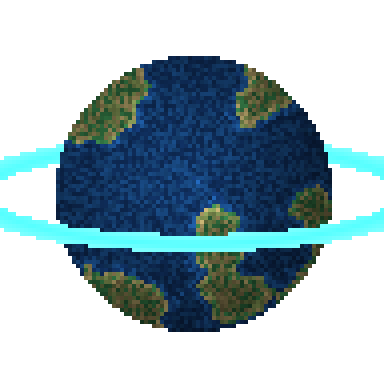
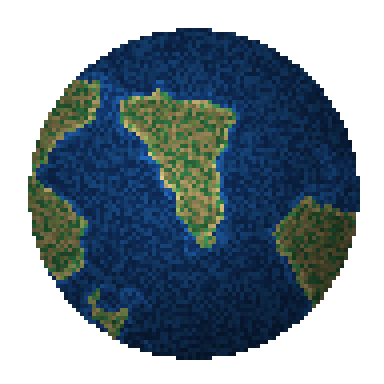
add galaxy generator

diff --git a/galaxy_generator.py b/galaxy_generator.py
@@ -1,0 +1,210 @@
+from PIL import Image, ImageDraw, ImageFilter
+import random
+import math
+from galaxy_color_themes import COLOR_THEMES
+
+BASE_W, BASE_H = 320, 180
+
+
+
+
+def lerp(a, b, t):
+    return a + (b - a) * t
+
+
+def color_lerp(c1, c2, t):
+    return tuple(int(lerp(c1[i], c2[i], t)) for i in range(3))
+
+
+def soft_palette_color(colors):
+    t = random.random() * (len(colors) - 1)
+    i = int(t)
+    local_t = t - i
+
+    if i >= len(colors) - 1:
+        return colors[-1]
+
+    # 平滑过渡
+    local_t = local_t * local_t * (3 - 2 * local_t)
+    return color_lerp(colors[i], colors[i + 1], local_t)
+
+
+def random_star_color():
+    star_colors = [
+        (255, 255, 255),
+        (245, 245, 235),
+        (230, 240, 255),
+        (255, 230, 210),
+        (255, 190, 160),
+        (190, 220, 255),
+    ]
+
+    base = random.choice(star_colors)
+    brightness = random.uniform(0.75, 1.0)
+
+    return tuple(min(255, int(c * brightness)) for c in base) + (255,)
+
+
+def generate_pixel_galaxy(
+    width=800,
+    height=450,
+    pixel_size=3,
+    output="galaxy_colorful.png",
+    theme_name=None
+):
+    scale = min(width / BASE_W, height / BASE_H)
+    area_scale = (width * height) / (BASE_W * BASE_H)
+
+    if theme_name == None:
+        theme = random.choice(COLOR_THEMES)
+    else:
+        for t in COLOR_THEMES:
+            if t["name"] == theme_name:
+                theme = t
+
+    galaxy_angle = random.uniform(-0.55, 0.55)
+    galaxy_width = random.uniform(0.08, 0.17) * height
+    nebula_strength = random.uniform(0.6, 1.6)
+    star_density = random.uniform(0.75, 1.35)
+
+    img = Image.new("RGB", (width, height), theme["bg_top"])
+    draw = ImageDraw.Draw(img)
+
+    # 背景柔和渐变
+    for y in range(height):
+        t = y / height
+        t = t * t * (3 - 2 * t)
+        color = color_lerp(theme["bg_top"], theme["bg_bottom"], t)
+        draw.line([(0, y), (width, y)], fill=color)
+
+    # 星云
+    nebula = Image.new("RGBA", (width, height), (0, 0, 0, 0))
+    ndraw = ImageDraw.Draw(nebula)
+
+    nebula_count = int(16 * area_scale * nebula_strength)
+
+    for _ in range(nebula_count):
+        x = random.randint(-int(width * 0.25), width)
+        y = random.randint(-int(height * 0.25), height)
+
+        rx = int(random.randint(35, 150) * scale)
+        ry = int(random.randint(25, 100) * scale)
+
+        color = soft_palette_color(theme["nebula"])
+        alpha = random.randint(20, 70)
+
+        ndraw.ellipse((x, y, x + rx, y + ry), fill=(*color, alpha))
+
+    nebula = nebula.filter(ImageFilter.GaussianBlur(radius=max(1, 7 * scale)))
+    img = Image.alpha_composite(img.convert("RGBA"), nebula)
+
+    # 银河带
+    galaxy = Image.new("RGBA", (width, height), (0, 0, 0, 0))
+    gdraw = ImageDraw.Draw(galaxy)
+
+    center_y = random.randint(int(height * 0.3), int(height * 0.7))
+    particle_count = int(2100 * area_scale)
+
+    for _ in range(particle_count):
+        x = random.randint(0, width - 1)
+
+        base_y = center_y + math.tan(galaxy_angle) * (x - width / 2)
+        wave = math.sin(x * 0.018 + random.random() * 4) * height * 0.035
+        y = int(base_y + wave + random.gauss(0, galaxy_width))
+
+        if 0 <= y < height:
+            color = soft_palette_color(theme["galaxy"])
+
+            brightness = random.uniform(0.65, 1.15)
+            color = tuple(min(255, int(c * brightness)) for c in color)
+
+            alpha = random.randint(35, 105)
+            gdraw.point((x, y), fill=(*color, alpha))
+
+    galaxy = galaxy.filter(ImageFilter.GaussianBlur(radius=max(1, 1.4 * scale)))
+    img = Image.alpha_composite(img, galaxy)
+
+    draw = ImageDraw.Draw(img)
+
+    # 普通星星
+    star_count = int(300 * area_scale * star_density)
+
+    for _ in range(star_count):
+        x = random.randint(0, width - 1)
+        y = random.randint(0, height - 1)
+
+        color = random_star_color()
+
+        # 大多数暗一点，少数很亮
+        if random.random() < 0.75:
+            factor = random.uniform(0.45, 0.85)
+            color = tuple(int(c * factor) for c in color[:3]) + (255,)
+
+        draw.point((x, y), fill=color)
+
+    # 少量亮星
+    bright_star_count = max(2, int(4 * area_scale))
+
+    for _ in range(bright_star_count):
+        x = random.randint(3, width - 4)
+        y = random.randint(3, height - 4)
+
+        color = random.choice([
+            (255, 255, 255, 255),
+            (245, 245, 230, 255),
+            (225, 240, 255, 255),
+            (255, 220, 190, 255),
+        ])
+
+        style = random.choices(
+            ["dot", "diamond", "tiny_cluster"],
+            weights=[35, 40, 25],
+            k=1
+        )[0]
+
+        if style == "dot":
+            draw.point((x, y), fill=color)
+            if random.random() < 0.45:
+                draw.point((x + 1, y), fill=color)
+
+        elif style == "diamond":
+            soft = (*color[:3], 120)
+
+            draw.point((x, y), fill=color)
+            draw.point((x - 1, y), fill=color)
+            draw.point((x + 1, y), fill=color)
+            draw.point((x, y - 1), fill=color)
+            draw.point((x, y + 1), fill=color)
+
+            draw.point((x - 1, y - 1), fill=soft)
+            draw.point((x + 1, y - 1), fill=soft)
+            draw.point((x - 1, y + 1), fill=soft)
+            draw.point((x + 1, y + 1), fill=soft)
+
+        elif style == "tiny_cluster":
+            for _ in range(random.randint(3, 6)):
+                dx = random.randint(-2, 2)
+                dy = random.randint(-2, 2)
+
+                if dx * dx + dy * dy <= 5:
+                    alpha = random.randint(120, 255)
+                    draw.point((x + dx, y + dy), fill=(*color[:3], alpha))
+
+    img = img.convert("RGB")
+    img = img.resize(
+        (width * pixel_size, height * pixel_size),
+        Image.Resampling.NEAREST
+    )
+
+    img.save(output)
+    print(f"生成完成：{output}")
+    print(f"本次主题：{theme['name']}")
+
+
+if __name__ == "__main__":
+    generate_pixel_galaxy(
+        width=800,
+        height=450,
+        pixel_size=3,
+        output="galaxy_colorful.png"
+    )

diff --git a/main.py b/main.py
@@ -3,7 +3,7 @@ from pathlib import Path
 from palettes import PALETTES
 from planet import make_planet
 from recolor import recolor_planet
-
+from galaxy_generator import generate_pixel_galaxy
 
 def main():
     output_dir = Path("output")
@@ -12,43 +12,25 @@ def main():
 
     #seed = make_planet( size=96, tone="earth", filename="single_earth.png", ring=True, ring_color="#00FFFF")
 
-    size = 96
+    #size = 96
 
-    for tone in PALETTES.keys():
-        normal_path = output_dir / f"{tone}.png"
-        gray_path = output_dir / f"{tone}_gray.png"
-        purple_path = output_dir / f"{tone}_purple.png"
-        ring_path = output_dir / f"{tone}_ring.png"
+    
 
-        # 每个风格固定一个 seed
-        # 这样普通版、灰色版、紫色版都来自同一颗星球
-        seed = make_planet(
-            size=size,
-            tone=tone,
-            filename=normal_path,
-            ring=False,
-        )
+    generate_pixel_galaxy(
+        width=800,
+        height=450,
+        pixel_size=3,
+        output=output_dir /f"galaxy_red.png",
+        theme_name="red_nebula",
+    )
 
-        recolor_planet(
-            image_path=normal_path,
-            mode="grayscale",
-            output=gray_path,
-        )
-
-        recolor_planet(
-            image_path=normal_path,
-            mode="purple",
-            output=purple_path,
-        )
-
-        # 光环版使用同一个 seed，地表会和普通版一致
-        make_planet(
-            size=size,
-            tone=tone,
-            filename=ring_path,
-            seed=seed,
-            ring=True,
-        )
+    generate_pixel_galaxy(
+        width=800,
+        height=450,
+        pixel_size=3,
+        output=output_dir /f"galaxy_random.png",
+        theme_name="random",
+    )
 
 
 if __name__ == "__main__":

diff --git a/galaxy_color_themes.py b/galaxy_color_themes.py
@@ -1,0 +1,37 @@
+COLOR_THEMES = [
+    {
+        "name": "deep_blue",
+        "bg_top": (3, 4, 16),
+        "bg_bottom": (8, 14, 38),
+        "nebula": [(40, 70, 160), (90, 140, 220), (160, 190, 255)],
+        "galaxy": [(120, 150, 220), (190, 210, 255), (255, 245, 220)],
+    },
+    {
+        "name": "red_nebula",
+        "bg_top": (12, 3, 8),
+        "bg_bottom": (38, 10, 18),
+        "nebula": [(120, 25, 35), (200, 70, 60), (255, 160, 110)],
+        "galaxy": [(220, 150, 130), (255, 220, 190), (255, 245, 225)],
+    },
+    {
+        "name": "white_bright",
+        "bg_top": (8, 8, 14),
+        "bg_bottom": (22, 22, 36),
+        "nebula": [(90, 100, 130), (170, 180, 210), (245, 245, 255)],
+        "galaxy": [(180, 190, 220), (235, 235, 245), (255, 255, 255)],
+    },
+    {
+        "name": "purple_magenta",
+        "bg_top": (8, 3, 18),
+        "bg_bottom": (28, 10, 45),
+        "nebula": [(80, 30, 130), (180, 70, 170), (255, 160, 220)],
+        "galaxy": [(150, 120, 220), (230, 190, 255), (255, 240, 255)],
+    },
+    {
+        "name": "cold_white",
+        "bg_top": (4, 8, 14),
+        "bg_bottom": (14, 28, 42),
+        "nebula": [(70, 110, 130), (160, 210, 220), (235, 255, 255)],
+        "galaxy": [(170, 210, 230), (230, 250, 255), (255, 255, 255)],
+    },
+]
